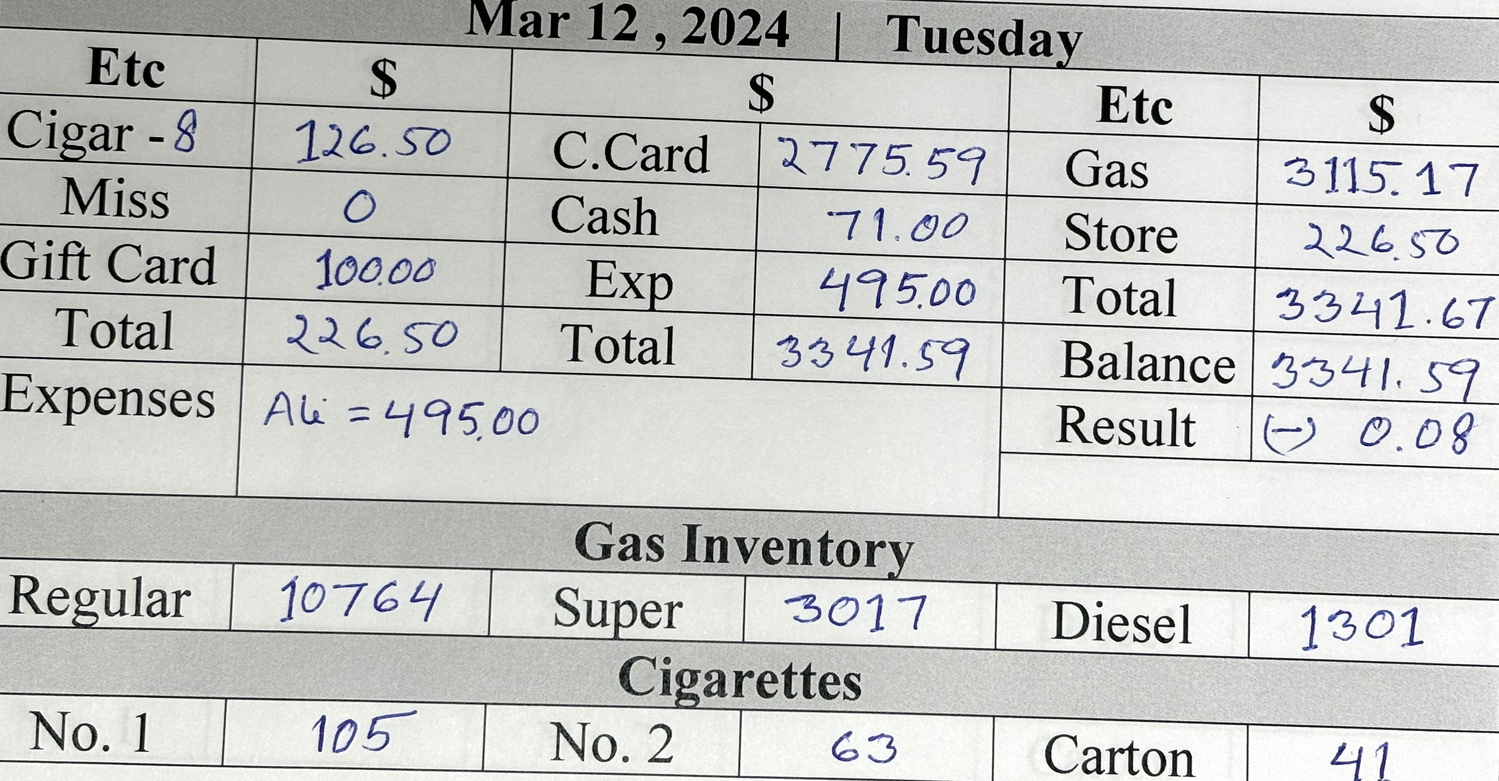
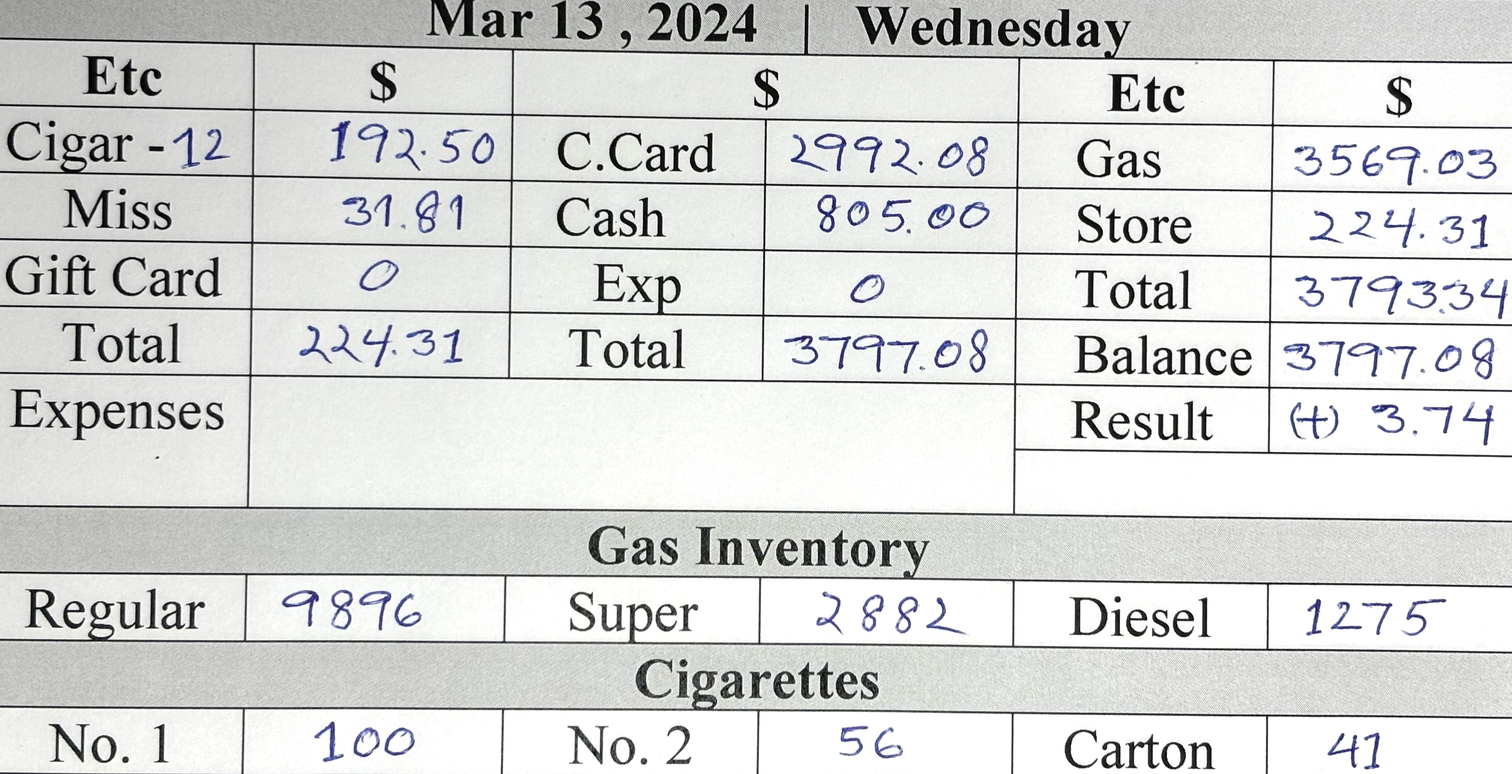
d

diff --git a/card.min.html b/card.min.html
@@ -1,1 +1,1 @@
-<!DOCTYPE html> <html lang="en"> <head> <meta charset="UTF-8"> <meta http-equiv="X-UA-Compatible" content="IE=edge"> <meta name="viewport" content="width=device-width,initial-scale=1"> <title>Gallon Info</title> <link rel="stylesheet" href="https://cdn.jsdelivr.net/npm/bootstrap@5.3.0-alpha1/dist/css/bootstrap.min.css"> </head> <body> <div class="card-group d-sm-flex flex-row bd-highlight mb- justify-content-center"> <div class="card bg-secondary align-items-center justify-content-center" style="height:50px"> <div class="card-body text-info fst-italic"> <h5 class="card-title fw-bolder text-center">Regular Price : <span class="text-warning">$3.19</span></h5> </div> </div> <div class="card bg-secondary align-items-center justify-content-center" style="height:50px"> <div class="card-body text-info fst-italic"> <h5 class="card-title fw-bolder text-center pt-">Silver Price : <span class="text-warning">$4.09</span></h5> </div> </div> <div class="card bg-secondary align-items-center justify-content-center" style="height:50px"> <div class="card-body text-info fst-italic"> <h5 class="card-title fw-bolder text-center">Super Price : <span class="text-warning">$4.19</span></h5> </div> </div> <div class="card bg-secondary align-items-center justify-content-center" style="height:50px"> <div class="card-body text-info fst-italic"> <h5 class="card-title fw-bolder text-center">Diesel Price : <span class="text-warning">$4.39</span></h5> </div> </div> </div> <div class="card-group"> <div class="card"> <button type="button" class="btn btn-warning text- fs- fw-bold text-uppercase"> For store Details <a title="printPage Me" class="text-bg-danger ms-3 fw-bolder p-1 rounded-3 text-decoration-none" href="index.html"> Click Me </a> </button> </div> </div> <div class="card-group m-0 d-sm-flex flex-row bd-highlight mb-"> <div class="card me-1 bg-info"> <h5 class="card-title text-center pt-4 m-0"> <button class="p-1 rounded-3" type="button"><a title="Click Me" class="text-decoration-none text-primary fw-bolder" href="index.html">   </a> </button> </h5>  <p class="card-text"></p> <img src="allPic/12.jpg" class="card-img-top text-danger text-center fw-bolder fs-3" alt="Call Rashid "> <div class="card-body">   <p class="card-text"></p> </div> </div> <div class="card me-1 bg-info"> <h5 class="card-title text-center pt-4 m-0"> <button class="p-1 rounded-3" type="button"><a title="Click Me" class="text-primary fw-bolder text-decoration-none" href="index.html"> Mar 11,2024 </a> </button> </h5>  <p class="card-text"></p> <img src="allPic/11.jpg" class="card-img-top text-center text-bg-danger" alt="Not Done"> <div class="card-body">   <p class="card-text"></p> </div> </div> <div class="card ms- bg-info"> <h5 class="card-title text-center pt-4 m-0"> <button class="p-1 rounded-3" type="button"><a title="Click Me" class="text-primary fw-bolder text-decoration-none" href="index.html"> Mar 10,2024 </a> </button> </h5>  <p class="card-text"></p> <img src="allPic/10.jpg" class="card-img-top text-center text-bg-danger" alt="Not Done"> <div class="card-body">   <p class="card-text"></p> </div> </div> <div class="card me-1 bg-info"> <h5 class="card-title text-center pt-4 m-0"> <button class="p-1 rounded-3" type="button"><a title="Click Me" class="text-primary fw-bolder text-decoration-none" href="index.html"> Mar 9,2024 </a> </button> </h5>  <p class="card-text"></p> <img title="Pic" src="allPic/9.jpg" class="card-img-top text-bg-danger fw-bolder text-center" alt="Already Done"> <div class="card-body">   <p class="card-text"></p> </div> </div> </div> <div class="card"> <div class="card-header bg-warning text-dark fw-bolder text-center py-3"> All Rights Reserved @ Jaber Ali , 2024 </div> </div>  <script type="text/javascript">const timeElement=document.querySelector(".time"),dateElement=document.querySelector(".date");function formatTime(e){e.getHours(),e.getMinutes(),e.getHours();return""}function formatDate(e){return` ${["January","Marruary","March","April","May","June","July","August","September","October","November","December"][e.getMonth()]} ${e.getDate()-1}, ${e.getFullYear()}`}setInterval((()=>{const e=new Date;timeElement.textContent=formatTime(e),dateElement.textContent=formatDate(e)}),200)</script> 
+<!DOCTYPE html> <html lang="en"> <head> <meta charset="UTF-8"> <meta http-equiv="X-UA-Compatible" content="IE=edge"> <meta name="viewport" content="width=device-width,initial-scale=1"> <title>Gallon Info</title> <link rel="stylesheet" href="https://cdn.jsdelivr.net/npm/bootstrap@5.3.0-alpha1/dist/css/bootstrap.min.css"> </head> <body> <div class="card-group d-sm-flex flex-row bd-highlight mb- justify-content-center"> <div class="card bg-secondary align-items-center justify-content-center" style="height:50px"> <div class="card-body text-info fst-italic"> <h5 class="card-title fw-bolder text-center">Regular Price : <span class="text-warning">$3.19</span></h5> </div> </div> <div class="card bg-secondary align-items-center justify-content-center" style="height:50px"> <div class="card-body text-info fst-italic"> <h5 class="card-title fw-bolder text-center pt-">Silver Price : <span class="text-warning">$4.09</span></h5> </div> </div> <div class="card bg-secondary align-items-center justify-content-center" style="height:50px"> <div class="card-body text-info fst-italic"> <h5 class="card-title fw-bolder text-center">Super Price : <span class="text-warning">$4.19</span></h5> </div> </div> <div class="card bg-secondary align-items-center justify-content-center" style="height:50px"> <div class="card-body text-info fst-italic"> <h5 class="card-title fw-bolder text-center">Diesel Price : <span class="text-warning">$4.39</span></h5> </div> </div> </div> <div class="card-group"> <div class="card"> <button type="button" class="btn btn-warning text- fs- fw-bold text-uppercase"> For store Details <a title="printPage Me" class="text-bg-danger ms-3 fw-bolder p-1 rounded-3 text-decoration-none" href="index.html"> Click Me </a> </button> </div> </div> <div class="card-group m-0 d-sm-flex flex-row bd-highlight mb-"> <div class="card me-1 bg-info"> <h5 class="card-title text-center pt-4 m-0"> <button class="p-1 rounded-3" type="button"><a title="Click Me" class="text-decoration-none text-primary fw-bolder" href="index.html">   </a> </button> </h5>  <p class="card-text"></p> <img src="allPic/13.jpg" class="card-img-top text-danger text-center fw-bolder fs-3" alt="Call Rashid "> <div class="card-body">   <p class="card-text"></p> </div> </div> <div class="card me-1 bg-info"> <h5 class="card-title text-center pt-4 m-0"> <button class="p-1 rounded-3" type="button"><a title="Click Me" class="text-primary fw-bolder text-decoration-none" href="index.html"> Mar 12,2024 </a> </button> </h5>  <p class="card-text"></p> <img src="allPic/12.jpg" class="card-img-top text-center text-bg-danger" alt="Not Done"> <div class="card-body">   <p class="card-text"></p> </div> </div> <div class="card ms- bg-info"> <h5 class="card-title text-center pt-4 m-0"> <button class="p-1 rounded-3" type="button"><a title="Click Me" class="text-primary fw-bolder text-decoration-none" href="index.html"> Mar 11,2024 </a> </button> </h5>  <p class="card-text"></p> <img src="allPic/11.jpg" class="card-img-top text-center text-bg-danger" alt="Not Done"> <div class="card-body">   <p class="card-text"></p> </div> </div> <div class="card me-1 bg-info"> <h5 class="card-title text-center pt-4 m-0"> <button class="p-1 rounded-3" type="button"><a title="Click Me" class="text-primary fw-bolder text-decoration-none" href="index.html"> Mar 10,2024 </a> </button> </h5>  <p class="card-text"></p> <img title="Pic" src="allPic/10.jpg" class="card-img-top text-bg-danger fw-bolder text-center" alt="Already Done"> <div class="card-body">   <p class="card-text"></p> </div> </div> </div> <div class="card"> <div class="card-header bg-warning text-dark fw-bolder text-center py-3"> All Rights Reserved @ Jaber Ali , 2024 </div> </div>  <script type="text/javascript">const timeElement=document.querySelector(".time"),dateElement=document.querySelector(".date");function formatTime(e){e.getHours(),e.getMinutes(),e.getHours();return""}function formatDate(e){return` ${["January","Marruary","March","April","May","June","July","August","September","October","November","December"][e.getMonth()]} ${e.getDate()-1}, ${e.getFullYear()}`}setInterval((()=>{const e=new Date;timeElement.textContent=formatTime(e),dateElement.textContent=formatDate(e)}),200)</script> 

diff --git a/weekly.min.html b/weekly.min.html
@@ -1,1 +1,1 @@
-<!DOCTYPE html> <html lang="en"> <meta charset="UTF-8"> <meta http-equiv="X-UA-Compatible" content="IE=edge"> <meta name="viewport" content="width=device-width,initial-scale=1"> <title>Cigarettes Info</title> <link rel="stylesheet" href="https://cdn.jsdelivr.net/npm/bootstrap@5.3.0-alpha1/dist/css/bootstrap.min.css">  <body> <div class="text-bg-success py-2 fw-bold"> <marquee behavior="" direction="">Weekly Total Sales Money</marquee> </div> <div class="container-fluid text-center m-0 p-0"> <div class="card-group"> <div class="card"> <button type="button" class="btn btn-warning fs- fw-bold text-uppercase"> Home Page <a title="printPage Me" class="text-bg-danger ms-2 fw-bolder p-1 rounded-3 text-decoration-none" href="index.html"> Click Me </a> </button> </div> </div> <div class="text-bg-info text-cente py- fw-bold mb-"> <div class="card-group m-0 d-sm-flex flex-row bd-highlight mb-"> <div class="card me- bg-inf"> <h5 class="text-center ms-5 mt-3 text-danger">Current Week</h5> <div class="card-body ms-3 p-0"> <table class="table"> <tr class="text-end"> <td>Monday </td> <td>:</td> <td class="text-start"> 334.00</td> </tr> <tr class="text-end"> <td>Tuesday </td> <td> :</td> <td class="text-start"> 566.00 </td> </tr> <tr class="text-end"> <td>Wednesday</td> <td> :</td> <td class="text-start">.00</td> </tr> <tr class="text-end"> <td>Thursday </td> <td> :</td> <td class="text-start"> .00 </td> </tr> <tr class="text-end"> <td class="">Friday </td> <td> :</td> <td class="text-start"> .00</td> </tr> <tr class="text-end"> <td>Saturday </td> <td> :</td> <td class="text-start">.00</td> </tr> <tr class="text-end"> <td>Sunday </td> <td> :</td> <td class="text-start"> .00 </td> </tr> <tr class="text-end"> <td>Auto Money </td> <td> :</td> <td class="text-start"> .00 </td> </tr> </table> <div class="m-0 p-0"> <p class="text-center text-danger bg-light fw-bold">Total Money : 0 </p> </div> </div> </div> <div class="card me- bg-inf"> <h5 class="text-center ms- mt-3 text-danger">Last Week : Mar 4 to 10 , 2024</h5> <div class="card-body ms-3 p-0"> <table class="table"> <tr class="text-end"> <td>Monday </td> <td>:</td> <td class="text-start"> 332.00</td> </tr> <tr class="text-end"> <td>Tuesday </td> <td> :</td> <td class="text-start"> 668.00 </td> </tr> <tr class="text-end"> <td>Wednesday</td> <td> :</td> <td class="text-start">529.00</td> </tr> <tr class="text-end"> <td>Thursday </td> <td> :</td> <td class="text-start"> 362.00 </td> </tr> <tr class="text-end"> <td class="">Friday </td> <td> :</td> <td class="text-start"> 458.00</td> </tr> <tr class="text-end"> <td>Saturday </td> <td> :</td> <td class="text-start">141.00</td> </tr> <tr class="text-end"> <td>Sunday </td> <td> :</td> <td class="text-start"> 711.00 </td> </tr> <tr class="text-end"> <td>Auto Money </td> <td> :</td> <td class="text-start">1291 <sup class="p-1 rounded-4 text-bg-dark">Tax:60</sup> [Mostofa=1231] </td> </tr> </table> <div class="m-0 p-0"> <p class="text-center text-danger bg-light fw-bold">Total Money : 4492 - 1200 = 3292 </p> </div> </div> </div> <div class="card me- bg-"> <div class="card-body"> <h5 class="text-start text-danger ms-2">Expenses of Last Week</h5> <table class="table text-start"> <tr> <td class="">Ali <span class="ms-5">: 525.00</span></td> </tr> <tr> <td class="">Rashid <span class="ms-3">: 572.00</span></td> </tr> <tr> <td class="">Print Paper <span class="ms-2">: 2.00</span></td> </tr> <tr> <td class="">Oil Depot <span class="ms-2">: 101.00</span></td> </tr> <tr> <td class="text-bg-warning text-dark rounded-2">Total <span class="ms-4">: 1200.00</span></td> </tr> </table> </div> </div> </div> </div> <!-- #footer start --> <div class="text-bg-success text-center py-2 fw-bold"> <p> All Rights Reserved @ Jaber Ali , 2024  </p> </div> </div> <script type="text/javascript">function printPage(){window.print()}</script> 
+<!DOCTYPE html> <html lang="en"> <meta charset="UTF-8"> <meta http-equiv="X-UA-Compatible" content="IE=edge"> <meta name="viewport" content="width=device-width,initial-scale=1"> <title>Cigarettes Info</title> <link rel="stylesheet" href="https://cdn.jsdelivr.net/npm/bootstrap@5.3.0-alpha1/dist/css/bootstrap.min.css">  <body> <div class="text-bg-success py-2 fw-bold"> <marquee behavior="" direction="">Weekly Total Sales Money</marquee> </div> <div class="container-fluid text-center m-0 p-0"> <div class="card-group"> <div class="card"> <button type="button" class="btn btn-warning fs- fw-bold text-uppercase"> Home Page <a title="printPage Me" class="text-bg-danger ms-2 fw-bolder p-1 rounded-3 text-decoration-none" href="index.html"> Click Me </a> </button> </div> </div> <div class="text-bg-info text-cente py- fw-bold mb-"> <div class="card-group m-0 d-sm-flex flex-row bd-highlight mb-"> <div class="card me- bg-inf"> <h5 class="text-center ms-5 mt-3 text-danger">Current Week</h5> <div class="card-body ms-3 p-0"> <table class="table"> <tr class="text-end"> <td>Monday </td> <td>:</td> <td class="text-start"> 334.00</td> </tr> <tr class="text-end"> <td>Tuesday </td> <td> :</td> <td class="text-start"> 566.00 </td> </tr> <tr class="text-end"> <td>Wednesday</td> <td> :</td> <td class="text-start">805.00</td> </tr> <tr class="text-end"> <td>Thursday </td> <td> :</td> <td class="text-start"> .00 </td> </tr> <tr class="text-end"> <td class="">Friday </td> <td> :</td> <td class="text-start"> .00</td> </tr> <tr class="text-end"> <td>Saturday </td> <td> :</td> <td class="text-start">.00</td> </tr> <tr class="text-end"> <td>Sunday </td> <td> :</td> <td class="text-start"> .00 </td> </tr> <tr class="text-end"> <td>Auto Money </td> <td> :</td> <td class="text-start"> .00 </td> </tr> </table> <div class="m-0 p-0"> <p class="text-center text-danger bg-light fw-bold">Total Money : 0 </p> </div> </div> </div> <div class="card me- bg-inf"> <h5 class="text-center ms- mt-3 text-danger">Last Week : Mar 4 to 10 , 2024</h5> <div class="card-body ms-3 p-0"> <table class="table"> <tr class="text-end"> <td>Monday </td> <td>:</td> <td class="text-start"> 332.00</td> </tr> <tr class="text-end"> <td>Tuesday </td> <td> :</td> <td class="text-start"> 668.00 </td> </tr> <tr class="text-end"> <td>Wednesday</td> <td> :</td> <td class="text-start">529.00</td> </tr> <tr class="text-end"> <td>Thursday </td> <td> :</td> <td class="text-start"> 362.00 </td> </tr> <tr class="text-end"> <td class="">Friday </td> <td> :</td> <td class="text-start"> 458.00</td> </tr> <tr class="text-end"> <td>Saturday </td> <td> :</td> <td class="text-start">141.00</td> </tr> <tr class="text-end"> <td>Sunday </td> <td> :</td> <td class="text-start"> 711.00 </td> </tr> <tr class="text-end"> <td>Auto Money </td> <td> :</td> <td class="text-start">1291 <sup class="p-1 rounded-4 text-bg-dark">Tax:60</sup> [Mostofa=1231] </td> </tr> </table> <div class="m-0 p-0"> <p class="text-center text-danger bg-light fw-bold">Total Money : 4492 - 1200 = 3292 </p> </div> </div> </div> <div class="card me- bg-"> <div class="card-body"> <h5 class="text-start text-danger ms-2">Expenses of Last Week</h5> <table class="table text-start"> <tr> <td class="">Ali <span class="ms-5">: 525.00</span></td> </tr> <tr> <td class="">Rashid <span class="ms-3">: 572.00</span></td> </tr> <tr> <td class="">Print Paper <span class="ms-2">: 2.00</span></td> </tr> <tr> <td class="">Oil Depot <span class="ms-2">: 101.00</span></td> </tr> <tr> <td class="text-bg-warning text-dark rounded-2">Total <span class="ms-4">: 1200.00</span></td> </tr> </table> </div> </div> </div> </div> <!-- #footer start --> <div class="text-bg-success text-center py-2 fw-bold"> <p> All Rights Reserved @ Jaber Ali , 2024  </p> </div> </div> <script type="text/javascript">function printPage(){window.print()}</script> 

diff --git a/index.min.html b/index.min.html
@@ -1,1 +1,1 @@
-<!DOCTYPE html> <html lang="en"> <head> <meta charset="UTF-8"> <meta http-equiv="X-UA-Compatible" content="IE=edge"> <meta name="viewport" content="width=device-width,initial-scale=1"> <title>Store Info</title> <link rel="stylesheet" href="https://cdn.jsdelivr.net/npm/bootstrap@5.3.0-alpha1/dist/css/bootstrap.min.css"> </head> <body> <div class="text-bg-success py-2 fw-bold text-uppercase"> <marquee behavior="" direction=""><span class="text-bolder text-bg-danger rounded-circle m-lg-2 fs-">***</span> Personal Business Information <span class="text-bolder text-bg-danger rounded-circle m-lg-2 fs-">***</span></marquee> </div> <div class="card-group"> <div class="card"> <button type="button" class="btn btn-warning fs- fw-bold text-uppercase"> For Gallon Details <a title="printPage Me" class="text-bg-danger ms-3 fw-bolder p-1 rounded-3 text-decoration-none" href="card.html"> Click Me </a> </button> </div> <div class="card"> <button type="button" class="btn btn-warning fs- fw-bold text-uppercase"> Weekly Total Money<a title="printPage Me" class="text-bg-danger ms-3 fw-bolder p-1 rounded-3 text-decoration-none" href="weekly.html"> Click Me </a> </button> </div> </div> <div class="card-group"> <div class="card"> <button type="button" class="btn btn-warning fs- fw-bold text-uppercase"> Order Cigarettes <a title="printPage Me" class="text-bg-danger ms-3 fw-bolder p-1 rounded-3 text-decoration-none" href="cigarettes.html"> Click Me </a> </button> </div> <div class="card"> <button type="button" class="btn btn-warning fs- fw-bold text-uppercase"> Oil Inventory<a title="printPage Me" class="text-bg-danger ms-3 fw-bolder p-1 rounded-3 text-decoration-none" href="oil.html"> Click Me </a> </button> </div> </div> <div class="text-center py-2"> <button class="fw-bold fs-5 rounded-2 text-bg-light text-primary"> <a title="printPage Me" class="text-decoration-none" href="card.html">   <span class=""> <button class="ms-5 fw-bolder rounded-2" onclick="printPage()"> Print Me </button></span> </a> </button> </div> <div class="card-group"> <div class="card"> <button type="button" class="btn btn-info fs- fw-bold text-uppercase"> Shift Report <span class="text-white ms-1">*</span> </button> <img src="allPic/hisab.jpg" class="card-img-top text-center text-bg-danger" alt="NOT FINISH"> </div> </div> <div class="card-grou"> <div class="card pb-3"> <button type="button" class="btn btn-secondary fs fw-bold text-uppercase"> Exp : <span class="text-warning ms-3">0 </span> </button> </div> </div> <div class="card-group"> <div class="card"> <button type="button" class="btn btn-secondary fs- fw-bold text-uppercase"> Auto shop </button> </div> </div> <div class="pb-3"> <div class="d-flex justify-content-around border border-dark fw-bolder"> <div class="p-0 text-info">T.M</div> <div class="p-0 text-danger">282 </div> <div class="p-0 text-info">Etc</div> <div class="p-0 text-danger">37</div> <div class="p-0 text-info">Rest</div> <div class="p-0 text-danger">245</div> </div> </div> <!-- #footer start --> <div class="text-bg-warning text-center py-3 fw-bold"> All Rights Reserved @ Jaber Ali , 2024 </div>  <script type="text/javascript">function printPage(){window.print()}const timeElement=document.querySelector(".time"),dateElement=document.querySelector(".date");function formatTime(t){const e=t.getHours()%12||12,n=t.getMinutes(),r=t.getHours()<12;return`${e.toString().padStart(2,"0")}:${n.toString().padStart(2,"0")} ${r?"AM":"PM"}`}function formatDate(t){return` ${["January","February","March","April","May","June","July","August","September","October","November","December"][t.getMonth()]} ${t.getDate()-1}, ${t.getFullYear()}`}setInterval((()=>{const t=new Date;timeElement.textContent=formatTime(t),dateElement.textContent=formatDate(t)}),200)</script> 
+<!DOCTYPE html> <html lang="en"> <head> <meta charset="UTF-8"> <meta http-equiv="X-UA-Compatible" content="IE=edge"> <meta name="viewport" content="width=device-width,initial-scale=1"> <title>Store Info</title> <link rel="stylesheet" href="https://cdn.jsdelivr.net/npm/bootstrap@5.3.0-alpha1/dist/css/bootstrap.min.css"> </head> <body> <div class="text-bg-success py-2 fw-bold text-uppercase"> <marquee behavior="" direction=""><span class="text-bolder text-bg-danger rounded-circle m-lg-2 fs-">***</span> Personal Business Information <span class="text-bolder text-bg-danger rounded-circle m-lg-2 fs-">***</span></marquee> </div> <div class="card-group"> <div class="card"> <button type="button" class="btn btn-warning fs- fw-bold text-uppercase"> For Gallon Details <a title="printPage Me" class="text-bg-danger ms-3 fw-bolder p-1 rounded-3 text-decoration-none" href="card.html"> Click Me </a> </button> </div> <div class="card"> <button type="button" class="btn btn-warning fs- fw-bold text-uppercase"> Weekly Total Money<a title="printPage Me" class="text-bg-danger ms-3 fw-bolder p-1 rounded-3 text-decoration-none" href="weekly.html"> Click Me </a> </button> </div> </div> <div class="card-group"> <div class="card"> <button type="button" class="btn btn-warning fs- fw-bold text-uppercase"> Order Cigarettes <a title="printPage Me" class="text-bg-danger ms-3 fw-bolder p-1 rounded-3 text-decoration-none" href="cigarettes.html"> Click Me </a> </button> </div> <div class="card"> <button type="button" class="btn btn-warning fs- fw-bold text-uppercase"> Oil Inventory<a title="printPage Me" class="text-bg-danger ms-3 fw-bolder p-1 rounded-3 text-decoration-none" href="oil.html"> Click Me </a> </button> </div> </div> <div class="text-center py-2"> <button class="fw-bold fs-5 rounded-2 text-bg-light text-primary"> <a title="printPage Me" class="text-decoration-none" href="card.html">   <span class=""> <button class="ms-5 fw-bolder rounded-2" onclick="printPage()"> Print Me </button></span> </a> </button> </div> <div class="card-group"> <div class="card"> <button type="button" class="btn btn-info fs- fw-bold text-uppercase"> Shift Report <span class="text-white ms-1">*</span> </button> <img src="allPic/hisab.jpg" class="card-img-top text-center text-bg-danger" alt="NOT FINISH"> </div> </div> <div class="card-grou"> <div class="card pb-3"> <button type="button" class="btn btn-secondary fs fw-bold text-uppercase"> Exp : <span class="text-warning ms-3">0 </span> </button> </div> </div> <div class="card-group"> <div class="card"> <button type="button" class="btn btn-secondary fs- fw-bold text-uppercase"> Auto shop </button> </div> </div> <div class="pb-3"> <div class="d-flex justify-content-around border border-dark fw-bolder"> <div class="p-0 text-info">T.M</div> <div class="p-0 text-danger">297 </div> <div class="p-0 text-info">Etc</div> <div class="p-0 text-danger">37</div> <div class="p-0 text-info">Rest</div> <div class="p-0 text-danger">260</div> </div> </div> <!-- #footer start --> <div class="text-bg-warning text-center py-3 fw-bold"> All Rights Reserved @ Jaber Ali , 2024 </div>  <script type="text/javascript">function printPage(){window.print()}const timeElement=document.querySelector(".time"),dateElement=document.querySelector(".date");function formatTime(t){const e=t.getHours()%12||12,n=t.getMinutes(),r=t.getHours()<12;return`${e.toString().padStart(2,"0")}:${n.toString().padStart(2,"0")} ${r?"AM":"PM"}`}function formatDate(t){return` ${["January","February","March","April","May","June","July","August","September","October","November","December"][t.getMonth()]} ${t.getDate()-1}, ${t.getFullYear()}`}setInterval((()=>{const t=new Date;timeElement.textContent=formatTime(t),dateElement.textContent=formatDate(t)}),200)</script> 

diff --git a/card.html b/card.html
@@ -67,7 +67,7 @@
         </h5>
           <p class="card-text"></p>
           <p class="card-text"><small class="text-muted"></small></p>
-        <img src="allPic/12.jpg" class="card-img-top text-danger text-center fw-bolder fs-3"   alt="Call Rashid ">
+        <img src="allPic/13.jpg" class="card-img-top text-danger text-center fw-bolder fs-3"   alt="Call Rashid ">
         <div class="card-body">
           <h5 class="card-title"></h5>
           <p class="card-text"></p>
@@ -78,13 +78,13 @@
         <h5 class="card-title text-center pt-4 m-0">
           <button class="p-1 rounded-3" type="button"><a title="Click Me"
              class="text-primary fw-bolder text-decoration-none " href="index.html">
-             Mar 11,2024
+             Mar 12,2024
           </a>
           </button>
         </h5>
           <p class="card-text"></p>
           <p class="card-text"><small class="text-muted"></small></p>
-        <img src="allPic/11.jpg" class="card-img-top text-center text-bg-danger" 
+        <img src="allPic/12.jpg" class="card-img-top text-center text-bg-danger" 
         alt="Not Done">
         <div class="card-body">
           <h5 class="card-title"></h5>
@@ -96,13 +96,13 @@
         <h5 class="card-title text-center pt-4 m-0 ">
           <button class="p-1 rounded-3" type="button"><a title="Click Me" 
             class="text-primary fw-bolder text-decoration-none " href="index.html">
-            Mar 10,2024         
+            Mar 11,2024         
           </a>
           </button>
           </h5>
           <p class="card-text"></p>
           <p class="card-text"><small class="text-muted"></small></p>
-        <img src="allPic/10.jpg" class="card-img-top text-center text-bg-danger" 
+        <img src="allPic/11.jpg" class="card-img-top text-center text-bg-danger" 
         alt="Not Done">
         <div class="card-body">
           <h5 class="card-title"></h5>
@@ -115,13 +115,13 @@
         <h5 class="card-title text-center pt-4 m-0 ">
           <button class="p-1 rounded-3" type="button"><a title="Click Me" 
             class="text-primary fw-bolder text-decoration-none " href="index.html">
-             Mar 9,2024
+             Mar 10,2024
             </a>
           </button>
           </h5>
           <p class="card-text"></p>
           <p class="card-text"><small class="text-muted"></small></p>
-        <img title="Pic" src="allPic/9.jpg" class="card-img-top  text-bg-danger fw-bolder text-center"
+        <img title="Pic" src="allPic/10.jpg" class="card-img-top  text-bg-danger fw-bolder text-center"
          alt="Already Done">
         <div class="card-body">
           <h5 class="card-title"></h5>

diff --git a/index.html b/index.html
@@ -118,12 +118,12 @@
       <div class="d-flex justify-content-around border border-dark fw-bolder">
         <!--this week start-->
         <div class="p-0 text-info">T.M</div>
-        <div class="p-0 text-danger">282 </div>
+        <div class="p-0 text-danger">297 </div>
         <div class="p-0 text-info">Etc</div>
         <div class="p-0 text-danger">37</div>
         <div class="p-0 text-info">Rest</div>
-        <div class="p-0 text-danger">245</div>
-          <!--54cc,-->
+        <div class="p-0 text-danger">260</div>
+          <!--54cc,15-->
         </div>
       </div>
     

diff --git a/weekly.html b/weekly.html
@@ -59,7 +59,7 @@
                 <tr class=" text-end">
                     <td>Wednesday</td>
                     <td> :</td>
-                    <td class="text-start">.00</td>
+                    <td class="text-start">805.00</td>
                 </tr>
                 <tr class=" text-end">
                     <td>Thursday </td>
